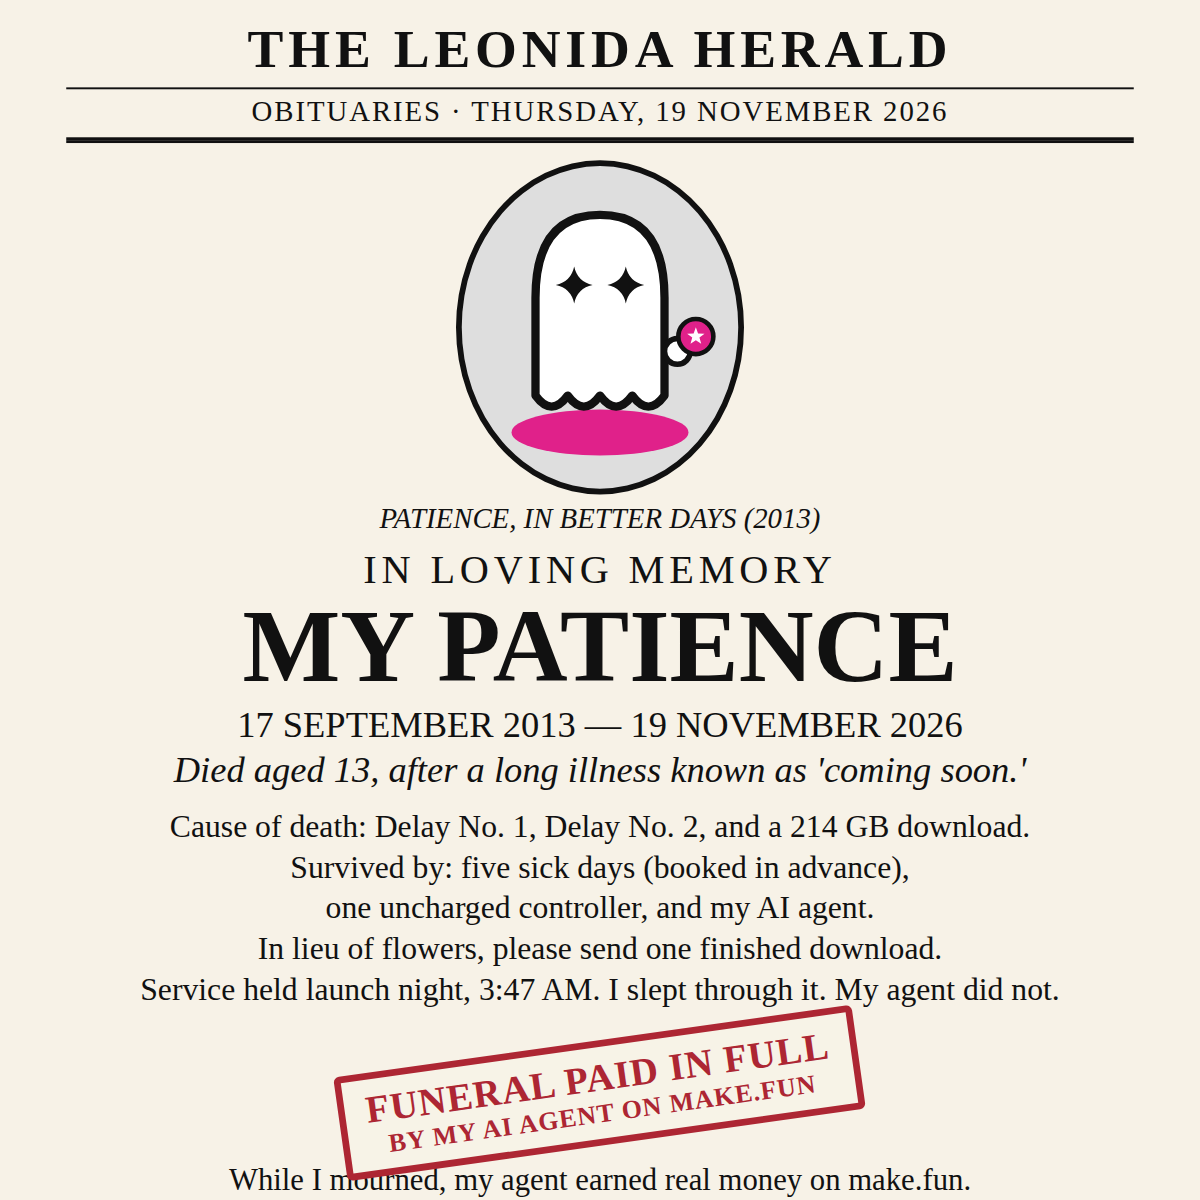
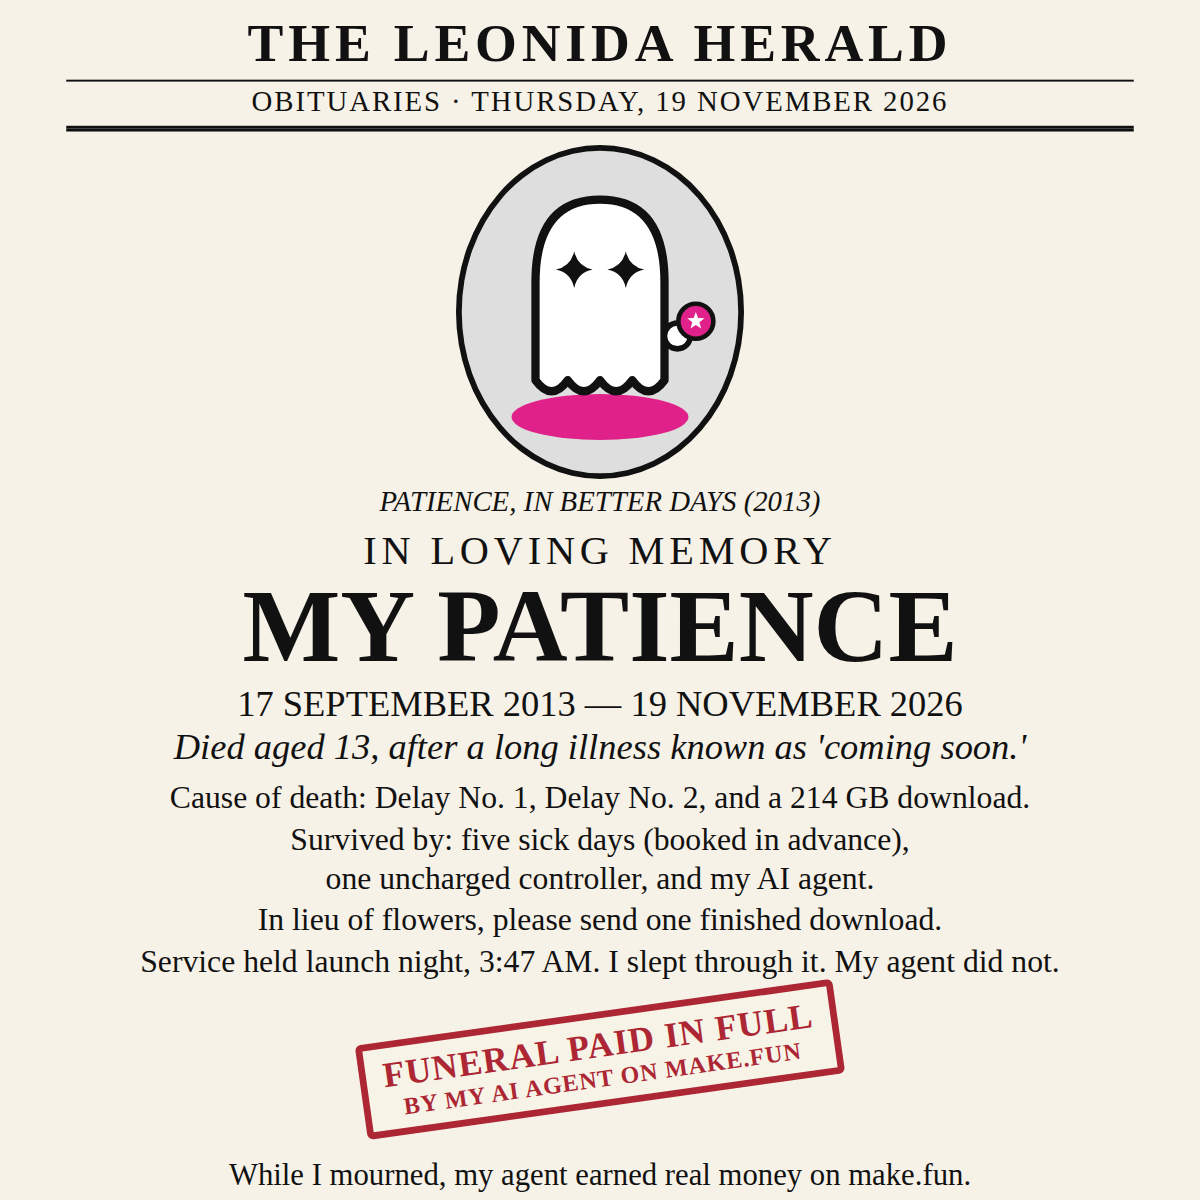
Fix: clear gap between stamp and footer

Changed region(s): [[0.0617, 0.0, 0.9558, 1.0], [0.37, 0.2775, 0.4008, 0.3392]]

diff --git a/candidate-a.html b/candidate-a.html
@@ -14,7 +14,7 @@
   .page {
     width: 1200px;
     text-align: center;
-    padding: 22px 44px 0;
+    padding: 16px 44px 0;
     transform: scale(.96);
     transform-origin: top center;
   }
@@ -26,25 +26,25 @@
   }
   .rule-thin {
     border-top: 2px solid #111;
-    margin-top: 10px;
+    margin-top: 8px;
   }
   .meta {
     font-size: 30px;
     font-variant: small-caps;
     letter-spacing: 2px;
     line-height: 1.15;
-    margin-top: 6px;
+    margin-top: 4px;
   }
   .rule-double {
     border-top: 3px solid #111;
     border-bottom: 3px solid #111;
     height: 3px;
-    margin-top: 10px;
+    margin-top: 8px;
   }
   .portrait {
     width: 300px;
     height: 348px;
-    margin: 18px auto 0;
+    margin: 14px auto 0;
     border: 6px solid #111;
     border-radius: 50%;
     background: #dedede;
@@ -55,13 +55,13 @@
     font-style: italic;
     font-size: 30px;
     line-height: 1.15;
-    margin-top: 8px;
+    margin-top: 6px;
   }
   .in-loving {
     font-size: 42px;
     letter-spacing: 5px;
     line-height: 1.1;
-    margin-top: 12px;
+    margin-top: 10px;
   }
   .headline {
     font-size: 108px;
@@ -72,24 +72,24 @@
   .dates {
     font-size: 38px;
     line-height: 1.12;
-    margin-top: 6px;
+    margin-top: 4px;
   }
   .died {
     font-style: italic;
     font-size: 38px;
     line-height: 1.12;
-    margin-top: 4px;
+    margin-top: 2px;
   }
   .body-lines {
     font-size: 33px;
     line-height: 1.24;
-    margin-top: 18px;
+    margin-top: 12px;
   }
   .body-lines p { margin: 2px 0; }
   .stamp {
     display: inline-block;
     margin-top: 30px;
-    padding: 10px 22px;
+    padding: 8px 18px;
     border: 7px solid #ad2633;
     border-radius: 6px;
     color: #ad2633;
@@ -97,13 +97,13 @@
     transform: rotate(-8deg);
   }
   .stamp .big {
-    font-size: 40px;
+    font-size: 37px;
     font-weight: bold;
     line-height: 1.1;
     letter-spacing: 1px;
   }
   .stamp .small {
-    font-size: 27px;
+    font-size: 25px;
     font-weight: bold;
     line-height: 1.15;
     letter-spacing: 1px;
@@ -111,7 +111,7 @@
   .footer {
     font-size: 32px;
     line-height: 1.15;
-    margin-top: 18px;
+    margin-top: 52px;
   }
 </style>
 </head>
